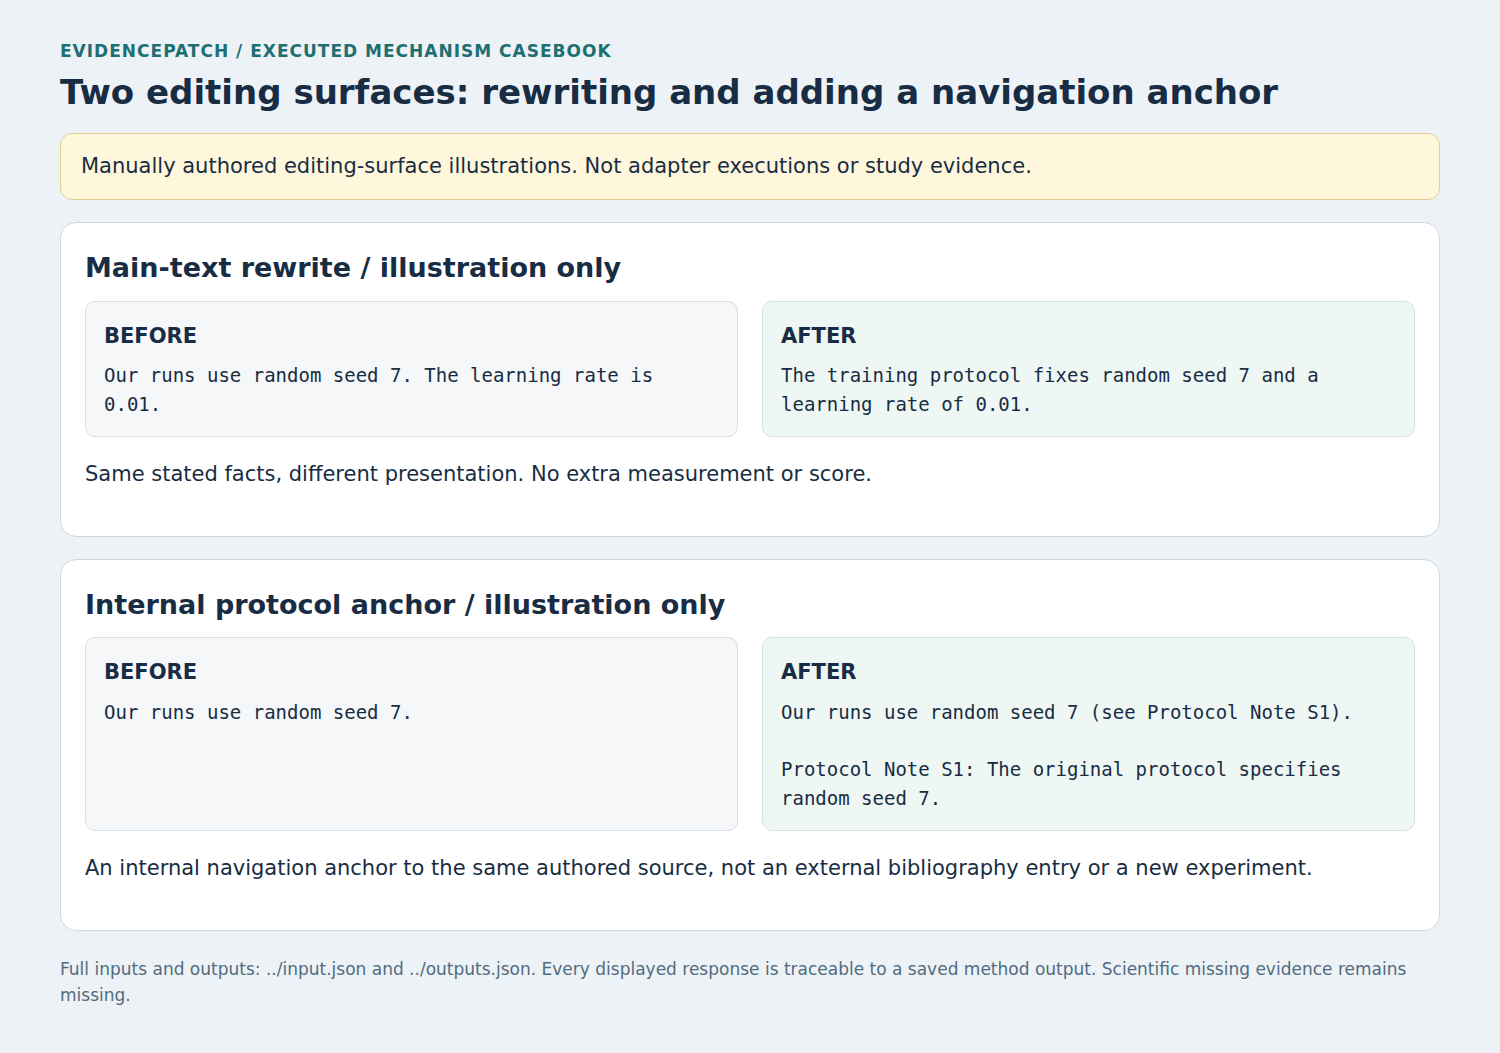
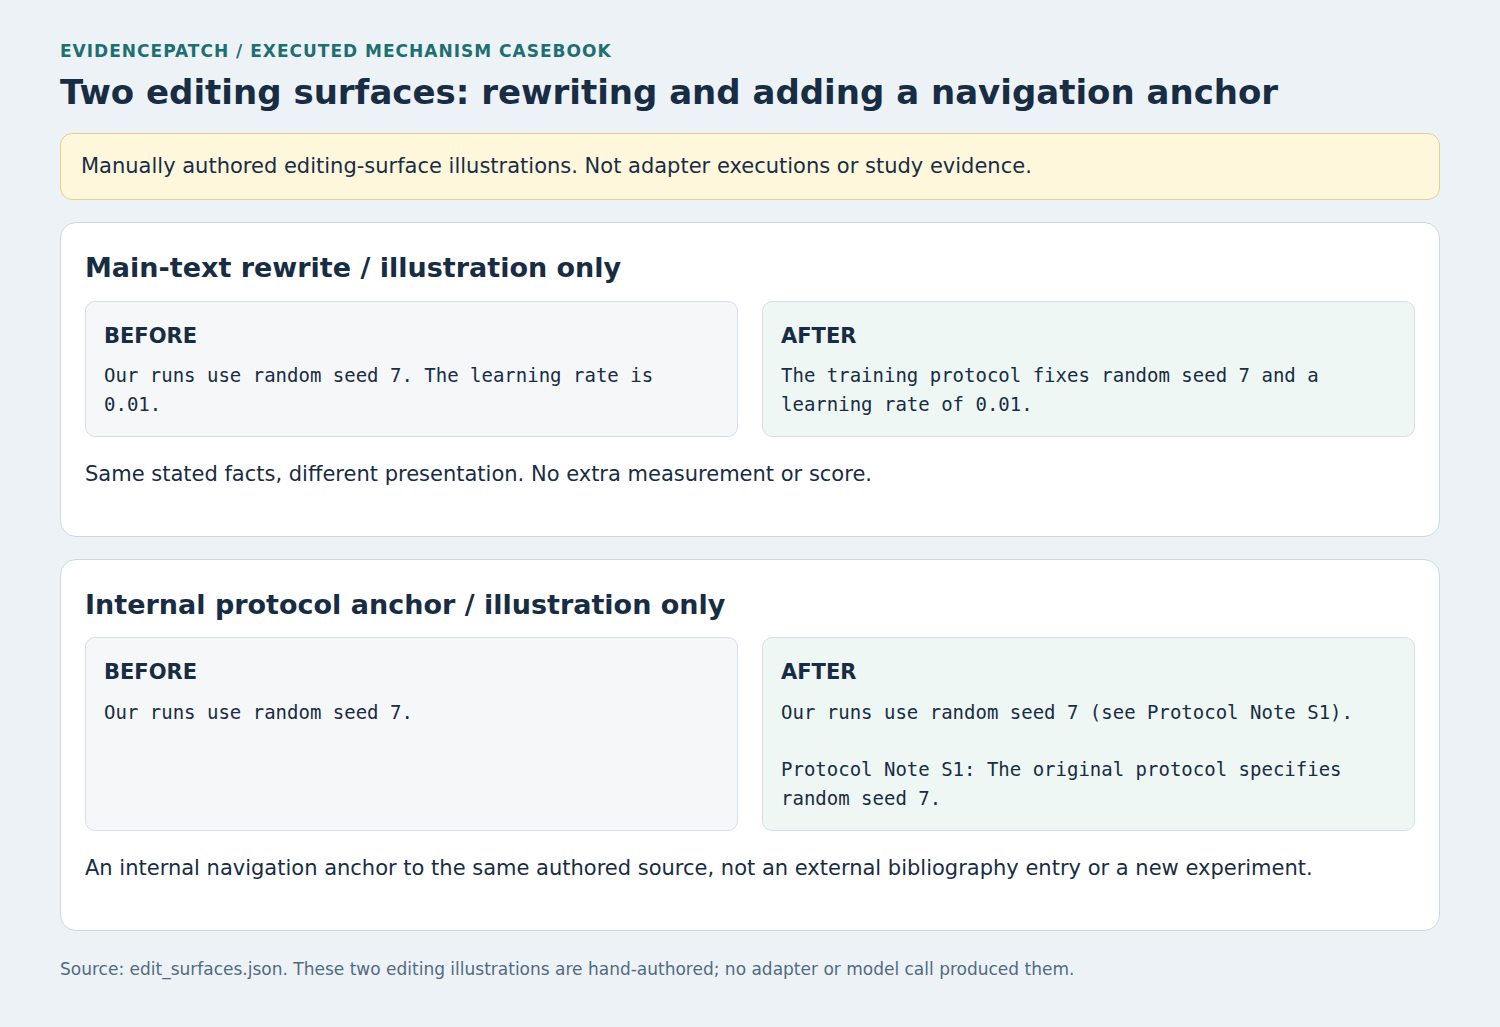
Clarify manual editing illustrations separately from executed adapter outputs

diff --git a/examples/revision_casebook/pages/edit_surfaces.html b/examples/revision_casebook/pages/edit_surfaces.html
@@ -1,3 +1,3 @@
 <!doctype html><html lang="en"><head><meta charset="utf-8"><title>Two editing surfaces: rewriting and adding a navigation anchor</title><style>body{margin:0;background:#edf2f6;color:#182d43;font:21px/1.55 Arial,sans-serif}main{width:1380px;margin:auto;padding:38px 36px 45px}h1{font-size:34px;line-height:1.2;margin:8px 0 15px}h2{font-size:27px;margin:0 0 12px}h3{font-size:21px;margin:0 0 9px}.tag{color:#1d6f72;font-size:17px;font-weight:bold;letter-spacing:1px}.scope{background:#fff7dc;border:1px solid #e3cf8e;padding:16px 20px;border-radius:12px;margin:20px 0}article{background:white;border:1px solid #cbd9e5;border-radius:16px;padding:24px;margin:22px 0}.columns{display:grid;grid-template-columns:1fr 1fr;gap:24px}.panel{padding:18px;background:#f5f7f9;border:1px solid #d7e0e7;border-radius:10px}.after{background:#eef7f3}.meta{font-size:18px;color:#4a6277;margin-top:14px}pre{white-space:pre-wrap;overflow-wrap:anywhere;font:19px/1.5 'DejaVu Sans Mono',monospace;margin:0}a{color:#165a8c}.decision{background:#e8f1fa;padding:16px;margin:14px 0;border-radius:9px}table{border-collapse:collapse;width:100%;font-size:18px}td,th{border:1px solid #cbd9e5;padding:8px;text-align:left}footer{font-size:17px;color:#526b80;margin-top:25px}ul{padding-left:25px}</style></head><body><main><div class="tag">EVIDENCEPATCH / EXECUTED MECHANISM CASEBOOK</div><h1>Two editing surfaces: rewriting and adding a navigation anchor</h1><div class="scope">Manually authored editing-surface illustrations. Not adapter executions or study evidence.</div><article><h2>Main-text rewrite / illustration only</h2><div class="columns"><div class="panel"><h3>BEFORE</h3><pre>Our runs use random seed 7. The learning rate is 0.01.</pre></div><div class="panel after"><h3>AFTER</h3><pre>The training protocol fixes random seed 7 and a learning rate of 0.01.</pre></div></div><p>Same stated facts, different presentation. No extra measurement or score.</p></article><article><h2>Internal protocol anchor / illustration only</h2><div class="columns"><div class="panel"><h3>BEFORE</h3><pre>Our runs use random seed 7.</pre></div><div class="panel after"><h3>AFTER</h3><pre>Our runs use random seed 7 (see Protocol Note S1).
 
-Protocol Note S1: The original protocol specifies random seed 7.</pre></div></div><p>An internal navigation anchor to the same authored source, not an external bibliography entry or a new experiment.</p></article><footer>Full inputs and outputs: ../input.json and ../outputs.json. Every displayed response is traceable to a saved method output. Scientific missing evidence remains missing.</footer></main></body></html>
+Protocol Note S1: The original protocol specifies random seed 7.</pre></div></div><p>An internal navigation anchor to the same authored source, not an external bibliography entry or a new experiment.</p></article><footer>Source: edit_surfaces.json. These two editing illustrations are hand-authored; no adapter or model call produced them.</footer></main></body></html>

diff --git a/scripts/build_revision_casebook.py b/scripts/build_revision_casebook.py
@@ -60,6 +60,7 @@ def main():
   body+='<article><h2>'+escape(form['name'])+'</h2><div class="columns"><div class="panel"><h3>BEFORE</h3><pre>'+escape(form['before'])+'</pre></div><div class="panel after"><h3>AFTER</h3><pre>'+escape(form['after'])+'</pre></div></div><p>'+escape(form['effect'])+'</p></article>'
  rendered=page('Two editing surfaces: rewriting and adding a navigation anchor',body)
  rendered=rendered.replace('Authored synthetic paper and review. These are saved outputs from actual adapters, not the 100/300-paper study and not new efficacy evidence. No review scores are assigned.',escape(forms['scope']))
+ rendered=rendered.replace('Full inputs and outputs: ../input.json and ../outputs.json. Every displayed response is traceable to a saved method output. Scientific missing evidence remains missing.','Source: edit_surfaces.json. These two editing illustrations are hand-authored; no adapter or model call produced them.')
  (PAGES/'edit_surfaces.html').write_text(rendered)
  print('Rendered HTML casebook for',len(outputs),'methods and four boundary cases.')
 if __name__=='__main__':main()
